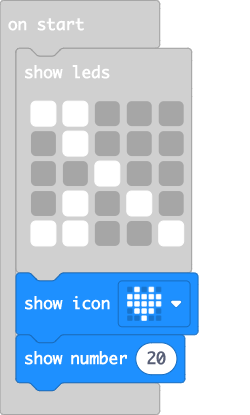
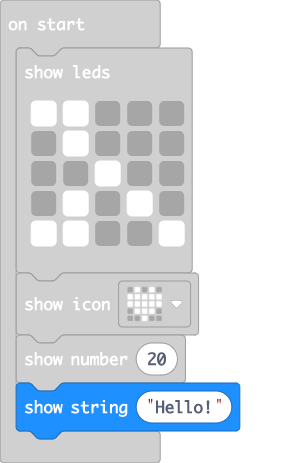
Added String

diff --git a/main.ts b/main.ts
@@ -7,6 +7,7 @@ basic.showLeds(`
     `)
 basic.showIcon(IconNames.Heart)
 basic.showNumber(20)
+basic.showString("Hello!")
 basic.forever(function () {
 	
 })
